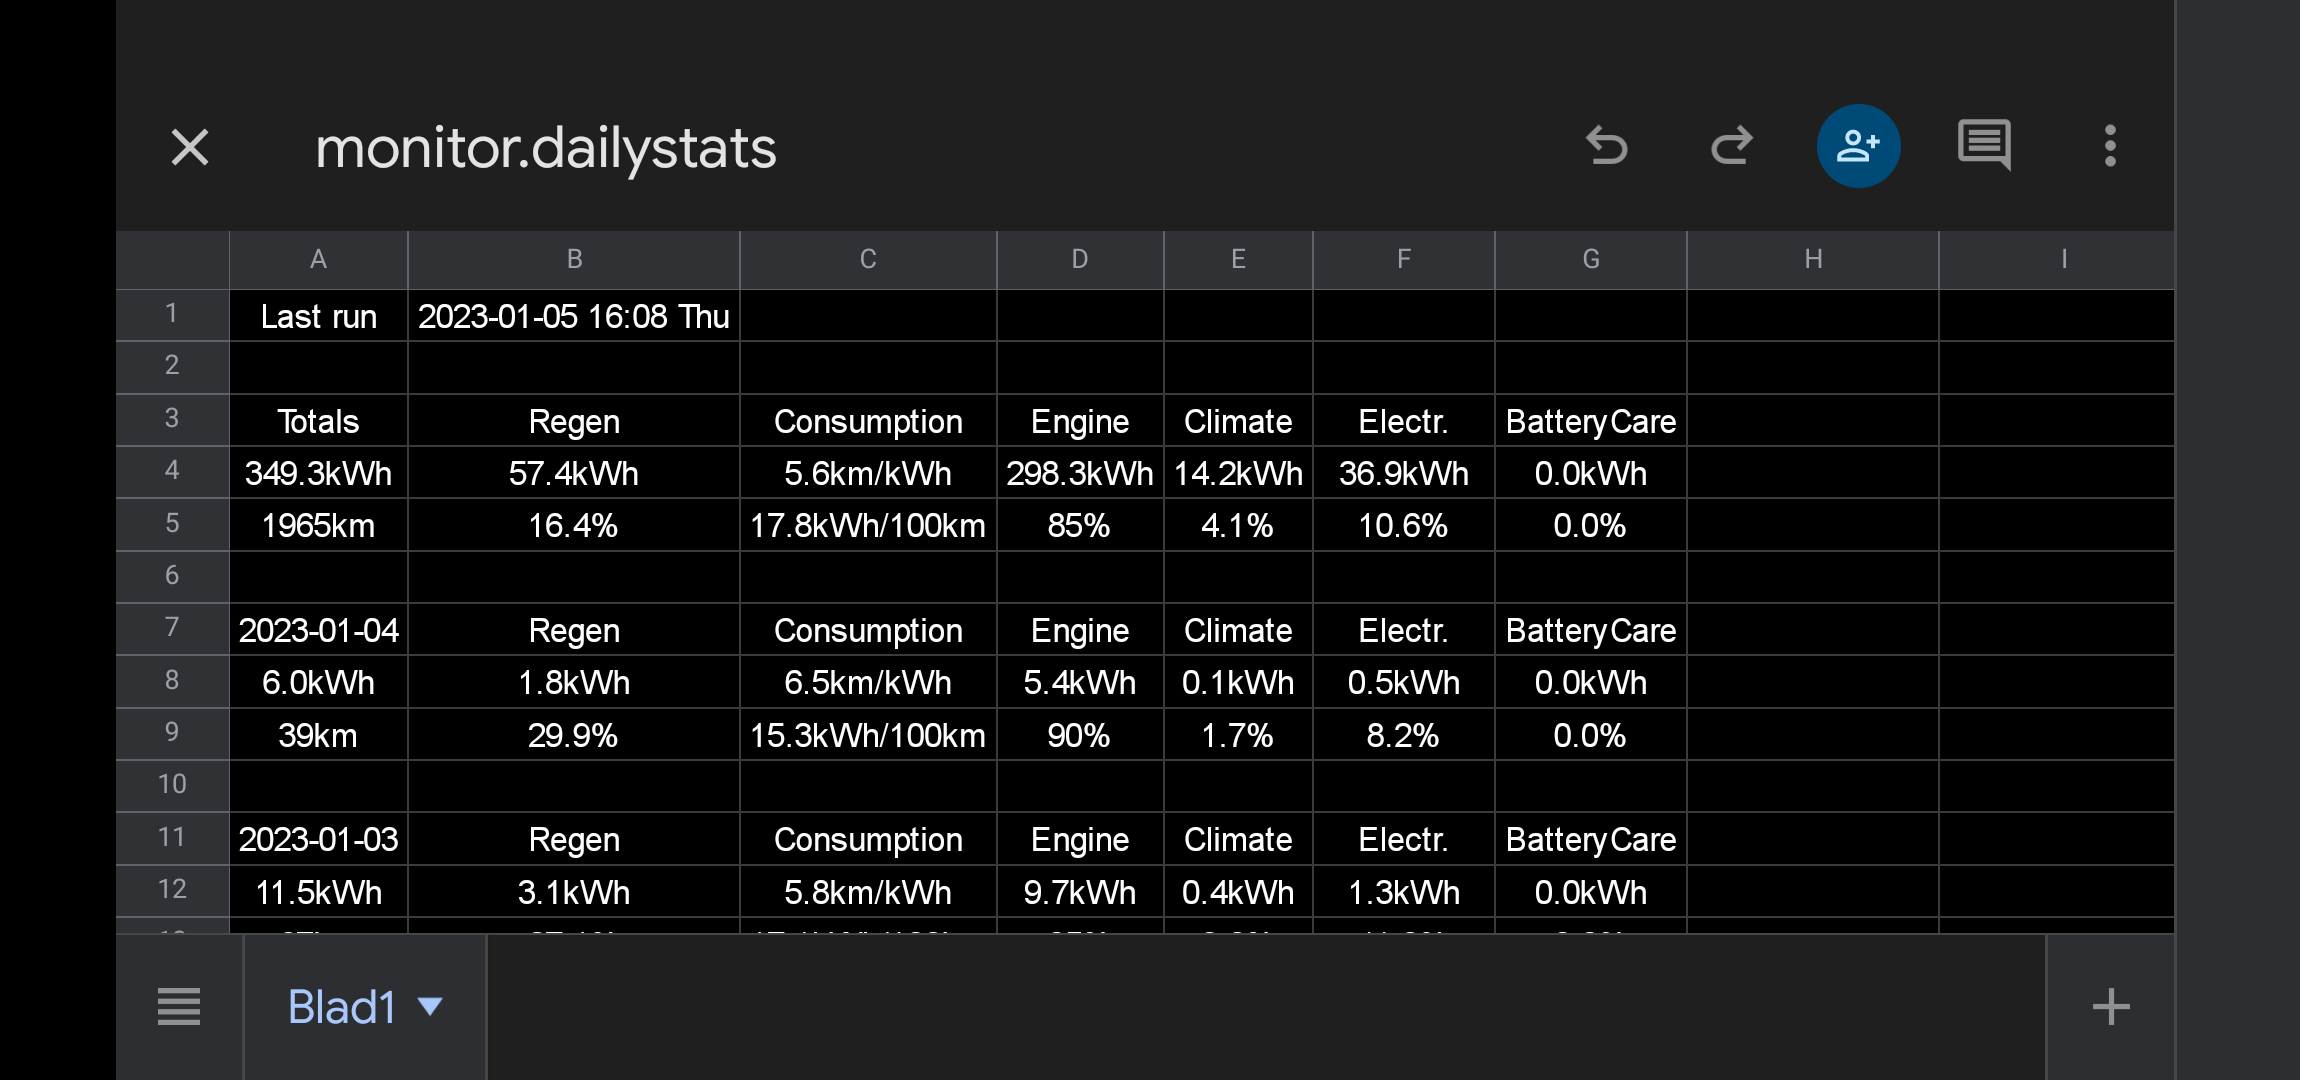
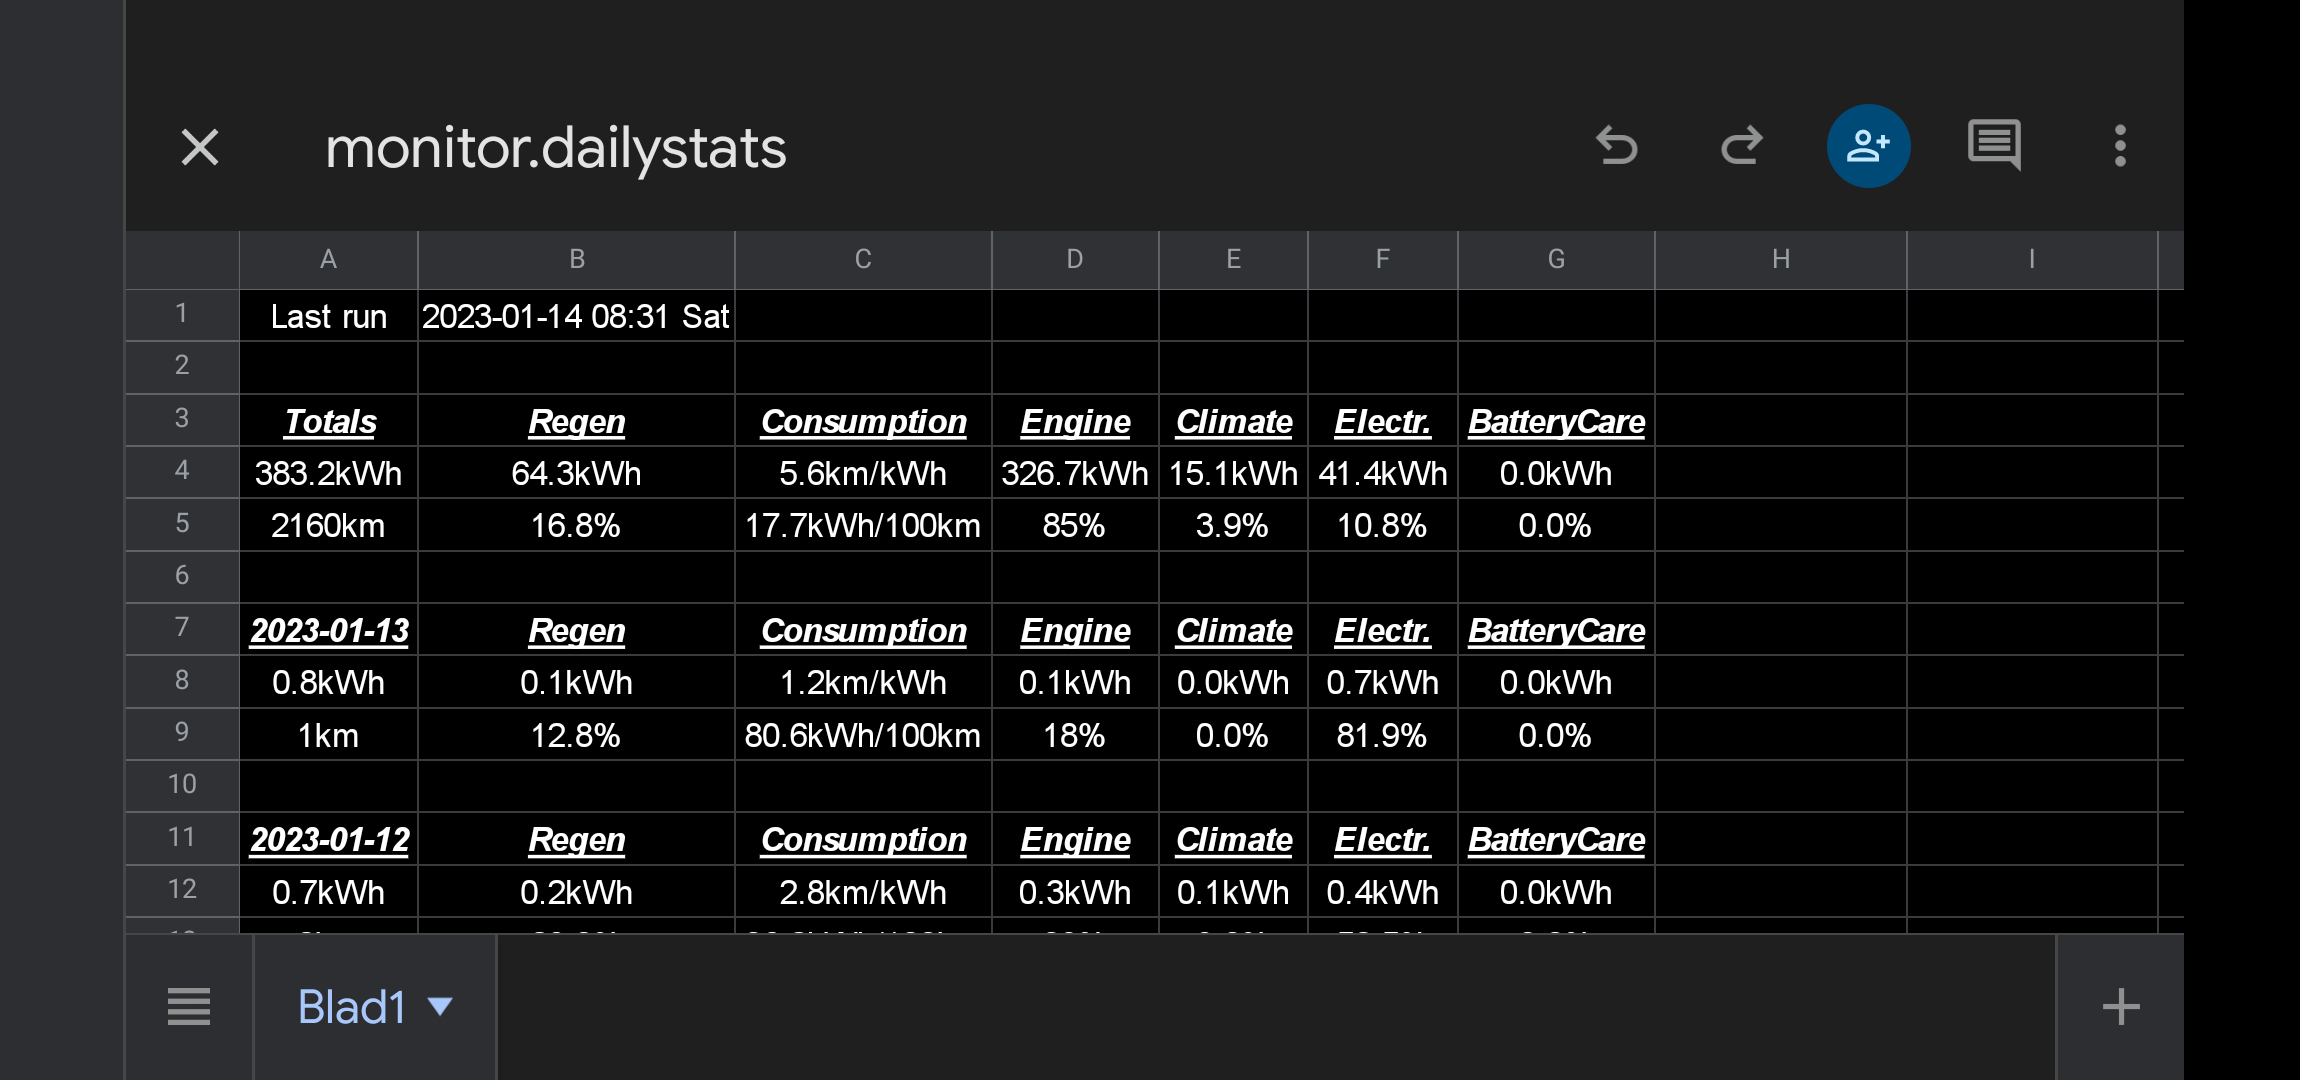
Cosmetic changes to Google Spreadsheet output

diff --git a/summary.py b/summary.py
@@ -1,4 +1,4 @@
-# == summary.py Author: Zuinige Rijder =======================================
+# == summary.py Author: Zuinige Rijder ========= pylint:disable=too-many-lines
 """
 Simple Python3 script to make a summary of monitor.csv
 """
@@ -268,16 +268,21 @@ def print_output_and_update_queue(output):
     print(output)
 
 
-def split_output_to_sheet_list(queue_output):
+def split_output_to_sheet_list(text):
     """split output to sheet list"""
-    split = queue_output.split(",")
-    return [split]
+    result = [x.strip() for x in text.split(",") if x != ""]
+    if len(result) == 22:  # swap Range and Address
+        tmp = result[20]
+        result[20] = result[21]
+        result[21] = tmp
+    return [result]
 
 
 def print_output_queue():
     """print output queue"""
     last_row = 75
     array = []
+    formats = []
     qlen = len(LAST_OUTPUT_QUEUE)
     current_row = last_row - (50 - qlen)
 
@@ -292,12 +297,43 @@ def print_output_queue():
                 "values": list_output,
             }
         )
-    SHEET.batch_update(array)
+        if "Period" in queue_output:
+            formats.append(
+                {
+                    "range": f"A{current_row}:W{current_row}",
+                    "format": {
+                        "horizontalAlignment": "CENTER",
+                        "textFormat": {
+                            "bold": True,
+                            "underline": True,
+                            "italic": True,
+                        },
+                    },
+                }
+            )
+        else:
+            formats.append(
+                {
+                    "range": f"A{current_row}:W{current_row}",
+                    "format": {
+                        "horizontalAlignment": "CENTER",
+                        "textFormat": {
+                            "bold": False,
+                            "underline": False,
+                            "italic": False,
+                        },
+                    },
+                }
+            )
+    if len(array) > 0:
+        SHEET.batch_update(array)
+    if len(formats) > 0:
+        SHEET.batch_format(formats)
 
 
 def print_header_and_update_queue():
     """print header and update queue"""
-    output = f"  Period, date      , info , odometer, delta {ODO_METRIC},    +kWh,     -kWh, {ODO_METRIC}/kWh, kWh/100{ODO_METRIC}, cost {COST_CURRENCY}, SOC%CUR,AVG,MIN,MAX, 12V%CUR,AVG,MIN,MAX, #charges,   #trips, Address, EV range"  # noqa pylint:disable=line-too-long
+    output = f"  Period, date      , info , odometer, delta {ODO_METRIC},    +kWh,     -kWh, {ODO_METRIC}/kWh, kWh/100{ODO_METRIC}, cost {COST_CURRENCY}, SOC%,AVG,MIN,MAX, 12V%,AVG,MIN,MAX, #charges,   #trips, Address, EV range"  # noqa pylint:disable=line-too-long
     print_output_and_update_queue(output)
 
 
@@ -548,6 +584,21 @@ def print_summary(prefix, current, values, split, factor):
                 },
             ]
         )
+        formats = []
+        formats.append(
+            {
+                "range": "A1:A23",
+                "format": {
+                    "horizontalAlignment": "RIGHT",
+                    "textFormat": {
+                        "bold": True,
+                        "underline": True,
+                        "italic": True,
+                    },
+                },
+            }
+        )
+        SHEET.batch_format(formats)
     else:
         output = f"{prefix:18},{odo_str:9},{delta_odo_str:9},{charged_kwh_str:8},{discharged_kwh_str:9},{km_mi_per_kwh_str:7},{kwh_per_km_mi_str:10},{cost_str:10},{t_soc_cur:8},{t_soc_avg:3},{t_soc_min:3},{t_soc_max:3},{t_volt12_cur:8},{t_volt12_avg:3},{t_volt12_min:3},{t_volt12_max:3},{t_charges_str:9},{t_trips_str:9},{location_str},{ev_range}"  # noqa pylint:disable=line-too-long
         print_output_and_update_queue(output)

diff --git a/dailystats.py b/dailystats.py
@@ -191,10 +191,10 @@ def read_reverse_order(file_name):
             yield buffer.decode()[::-1]
 
 
-def split_output_to_sheet_list(string):
+def split_output_to_sheet_list(text):
     """split output to sheet list"""
-    split = string.split(",")
-    return [split]
+    result = [x.strip() for x in text.split(",") if x != ""]
+    return [result]
 
 
 def increment_totals(line):
@@ -343,18 +343,48 @@ def reverse_print_dailystats(today_daily_stats_line):
 def print_output_queue():
     """print output queue"""
     array = []
+    formats = []
     current_row = 0
     for queue_output in PRINTED_OUTPUT_QUEUE:
         current_row += 1
         _ = D and dbg(f"write row: {current_row} {queue_output}")
         list_output = split_output_to_sheet_list(queue_output)
         array.append(
-            {
-                "range": f"A{current_row}:G{current_row}",
-                "values": list_output,
-            }
+            {"range": f"A{current_row}:G{current_row}", "values": list_output}
         )
-    SHEET.batch_update(array)
+        if "Regen" in queue_output:
+            formats.append(
+                {
+                    "range": f"A{current_row}:G{current_row}",
+                    "format": {
+                        "horizontalAlignment": "CENTER",
+                        "textFormat": {
+                            "bold": True,
+                            "underline": True,
+                            "italic": True,
+                        },
+                    },
+                }
+            )
+        else:
+            formats.append(
+                {
+                    "range": f"A{current_row}:G{current_row}",
+                    "format": {
+                        "horizontalAlignment": "CENTER",
+                        "textFormat": {
+                            "bold": False,
+                            "underline": False,
+                            "italic": False,
+                        },
+                    },
+                }
+            )
+
+    if len(array) > 0:
+        SHEET.batch_update(array)
+    if len(formats) > 0:
+        SHEET.batch_format(formats)
 
 
 if SHEETUPDATE:
